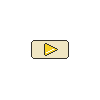
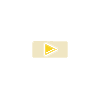
df

Changed region(s): [[0.3, 0.39, 0.69, 0.6]]

diff --git a/Classes/WelcoScene.cpp b/Classes/WelcoScene.cpp
@@ -177,7 +177,7 @@ void WelcoScene::initButtonsThings()
         node->configSopx("sopx/welco/arrow.png.sopx");
         hub->addChild(node);
         node->setOpacity(0);
-        node->setScale(1.1,1.5);
+        node->setScale(1.8);
         node->runAction(Sequence::create(
                                          FadeIn::create(1.5f),
                                          DelayTime::create(0.3),
@@ -192,6 +192,7 @@ void WelcoScene::initButtonsThings()
 
                                          MoveBy::create(move_time, {0,10,0}),
                                          NULL));
+        node->configMixColor(col2vec4(255, 255, 255, 150));
     }
     {
         auto node = PixelNode::create();
@@ -200,7 +201,7 @@ void WelcoScene::initButtonsThings()
         node->configSopx("sopx/welco/rush.png.sopx");
         hub->addChild(node);
         node->setOpacity(0);
-        node->setScale(1.1,1.5);
+        node->setScale(1.8);
         node->runAction(Sequence::create(
                                          FadeIn::create(1.5f),
                                          DelayTime::create(0.3),
@@ -215,6 +216,8 @@ void WelcoScene::initButtonsThings()
 
                                          MoveBy::create(move_time, {0,10,0}),
                                          NULL));
+        node->configMixColor(col2vec4(255, 255, 255, 150));
+
     }
 
     {
@@ -232,6 +235,8 @@ void WelcoScene::initButtonsThings()
 
                                          MoveBy::create(move_time, {0,10,0}),
                                          NULL));
+        node->configMixColor(col2vec4(255, 255, 255, 150));
+
     }
 
     {

diff --git a/Classes/SOCommon.h b/Classes/SOCommon.h
@@ -56,7 +56,7 @@ inline cocos2d::Vec2 movePathCalc(cocos2d::Vec2 origin, cocos2d::Vec2 speed, coc
 }
 
 inline cocos2d::Vec4 col2vec4(int r, int g, int b, int a){
-    return {r/255.f, g/255.f, b/255.f, a/255.f};
+    return {r*1.f/255.f, g*1.f/255.f, b*1.f/255.f, a*1.f/255.f};
 }
 
 #endif /* SOCommon_hpp */
